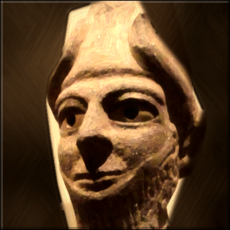
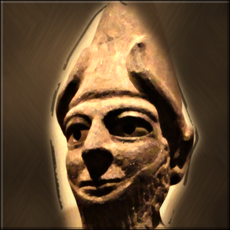
Settle the last weak leader heads
Henry the Navigator now comes from a far sharper scan of the Panel of
the Infante. The Celt gets a close outline that drops the sky round
him, the Hittite statue shows its whole crown, Wang Kon's face is less
yellow and haloed, and the Inca and Osman keep more of their detail.

diff --git a/ArtGen/leaderheads/build.py b/ArtGen/leaderheads/build.py
@@ -112,15 +112,16 @@ SOURCES = {
     'Sumeria': ('File:Gudea of Lagash Girsu.jpg',
                 (0.17, 0.03, 0.66), 'A typical Sumerian ruler, standing in for Gilgamesh, of whom no likeness survives: Gudea of Lagash, diorite statue, Louvre'),
     'Hittites': ('File:Priest-King or Diety, about 1600 BC, Hittite, North Syria, basalt with bone eyes - Cleveland Museum of Art - DSC08114.JPG',
-                (0.37, 0.11, 0.25), 'A typical Hittite king, standing in for Mursilis, of whom no likeness survives: basalt statue of a priest-king with bone eyes, about 1600 BC, Cleveland Museum of Art'),
+                (0.35, 0.07, 0.29), 'A typical Hittite king, standing in for Mursilis, of whom no likeness survives: basalt statue of a priest-king with bone eyes, about 1600 BC, Cleveland Museum of Art'),
     'Netherlands': ('File:William I, Prince of Orange by Adriaen Thomasz. Key Rijksmuseum Amsterdam SK-A-3148.jpg',
                     (0.1, 0.05, 0.8), 'William the Silent by Adriaen Thomasz. Key, about 1579'),
-    'Portugal': ('File:Henry the Navigator1.jpg', (0.09, 0.0, 0.91),
-                 'Henry the Navigator: detail of the Saint Vincent Panels by Nuno Goncalves, 1470s'),
+    'Portugal': ('File:Painéis de São Vicente de Fora - Painel do Infante (MNAA, inv. 1361 Pint).png',
+                 (0.625, 0.265, 0.32),
+                 'Henry the Navigator: detail of the Panel of the Infante, Saint Vincent Panels, by Nuno Goncalves, 1470s'),
     'Byzantines': ('File:Mosaic of empress Theodora, Ravenna, San Vitale, 547.jpg', (0.15, 0.10, 0.62),
                    'Empress Theodora: mosaic in the Basilica of San Vitale, Ravenna, 547'),
     'Inca': ('File:Brooklyn Museum - Pachacuti, Tenth Inca, 1 of 14 Portraits of Inca Kings (cropped).jpg',
-            (0.33, 0.17, 0.4), 'Pachacuti: Cuzco School painting, 18th century (Brooklyn Museum)'),
+            (0.3, 0.12, 0.46), 'Pachacuti: Cuzco School painting, 18th century (Brooklyn Museum)'),
     'Maya': ('File:Mayan - Stucco Portrait Head - Walters 20092026.jpg',
             (0.1, 0.12, 0.84), 'A typical Maya noble, standing in for Smoke-Jaguar, of whom no likeness is in the public domain: Classic Maya stucco portrait head from Campeche, Walters Art Museum'),
 }
@@ -153,10 +154,10 @@ PAINT = {
     # statues before a light wall: the sitter's outline pulled in further,
     # so no light rim of the wall glows round the head
     'Babylon': {'erode': 15, 'plain': 1.0},
-    'Hittites': {'erode': 8, 'hand_only': True,
-                 'hand': [[(0.27, 0.25), (0.3, 0.05), (0.45, 0.0), (0.6, 0.0), (0.68, 0.15), (0.8, 0.3), (0.88, 0.48),
-                           (0.84, 0.6), (0.8, 0.75), (0.75, 0.9), (0.72, 1), (0.3, 1), (0.25, 0.8), (0.22, 0.6),
-                           (0.2, 0.45), (0.22, 0.33)]]},
+    'Hittites': {'erode': 8, 'hand_only': True, 'level': 0.36, 'local': 1.5, 'feather': 4,
+                 'hand': [[(0.24, 0.42), (0.3, 0.25), (0.42, 0.06), (0.5, 0.0), (0.58, 0.04), (0.72, 0.25), (0.8, 0.45),
+                           (0.86, 0.6), (0.82, 0.68), (0.8, 0.8), (0.75, 0.9), (0.72, 1), (0.3, 1), (0.26, 0.85),
+                           (0.24, 0.7), (0.22, 0.55)]]},
     'Sumeria': {'erode': 15},
     'Greece': {'hand_only': True,
                'hand': [[(0.16, 0.3), (0.19, 0.15), (0.3, 0.09), (0.55, 0.08), (0.75, 0.13), (0.85, 0.22), (0.89, 0.5),
@@ -168,10 +169,10 @@ PAINT = {
                            (0.7, 0.45), (0.62, 0.62), (0.64, 0.76), (1, 0.86), (1, 1), (0, 1), (0, 0.88),
                            (0.34, 0.77), (0.37, 0.62), (0.3, 0.5)]]},
     # a pale face on pale silk the mask can't tell apart
-    'Korea': {'keep': 1.0, 'color': 0.8, 'level': 0.27, 'hand_only': True, 'local': 2.5, 'feather': 2,
-              'hand': [[(0.38, 0.06), (0.64, 0.06), (0.72, 0.3), (0.72, 0.45), (0.74, 0.5), (0.72, 0.62), (0.68, 0.72),
-                        (1, 0.78), (1, 1), (0, 1), (0, 0.78), (0.32, 0.72), (0.28, 0.62), (0.27, 0.5), (0.3, 0.45),
-                        (0.3, 0.3)]]},
+    'Korea': {'keep': 1.0, 'color': 0.4, 'level': 0.27, 'hand_only': True, 'local': 2.5, 'feather': 5, 'erode': 15,
+              'hand': [[(0.38, 0.06), (0.64, 0.06), (0.67, 0.3), (0.67, 0.45), (0.67, 0.5), (0.67, 0.62), (0.66, 0.72),
+                        (1, 0.78), (1, 1), (0, 1), (0, 0.78), (0.34, 0.72), (0.33, 0.62), (0.33, 0.5), (0.33, 0.45),
+                        (0.33, 0.3)]]},
     # photographs: more of the real picture kept on the face, so the
     # strokes don't break skin into patches
     'America': {'keep': 0.55, 'erode': 30, 'feather': 3},
@@ -182,16 +183,17 @@ PAINT = {
                           (1, 0.7), (1, 1), (0, 1), (0, 0.7)]]},
     'Japan': {'hand': [[(0.36, 0.45), (0.4, 0.3), (0.5, 0.2), (0.62, 0.18), (0.7, 0.25), (0.76, 0.35), (0.8, 0.5),
                         (0.82, 0.55), (1, 0.52), (1, 1), (0, 1), (0, 0.75), (0.3, 0.68), (0.36, 0.6)]]},
-    'Celts': {'feather': 4,
-              'hand': [[(0.27, 0.36), (0.33, 0.18), (0.42, 0.3), (0.56, 0.42), (0.6, 0.55), (0.6, 0.7), (0.75, 0.75),
-                        (0.9, 0.8), (0.95, 1), (0.05, 1), (0.08, 0.8), (0.24, 0.7), (0.23, 0.5)]]},
+    'Celts': {'feather': 3, 'hand_only': True,
+              'hand': [[(0.33, 0.4), (0.36, 0.22), (0.45, 0.33), (0.58, 0.38), (0.62, 0.48), (0.63, 0.62), (0.66, 0.74),
+                        (0.85, 0.8), (0.92, 1), (0.08, 1), (0.15, 0.8), (0.3, 0.74), (0.31, 0.6), (0.31, 0.48)]]},
     'Byzantines': {'keep': 0.75, 'broad': 150},
     'Aztecs': {'broad': 140,
                'hand': [[(0.38, 0.25), (0.42, 0.1), (0.5, 0.05), (0.62, 0.02), (0.75, 0.02), (0.8, 0.1), (0.78, 0.3),
                          (0.85, 0.45), (0.9, 0.62), (1, 0.68), (1, 1), (0, 1), (0.1, 0.62), (0.25, 0.5),
                          (0.38, 0.5)]]},
-    'Portugal': {'level': 0.44},
-    'Inca': {'level': 0.40},
+    'Portugal': {'level': 0.42},
+    'Ottomans': {'keep': 0.6},
+    'Inca': {'level': 0.36, 'keep': 0.6},
     # Abu Bakr's roundel: its green dimmed toward an aged verdigris
     'Arabia': {'green': 0.2, 'level': 0},
 }
